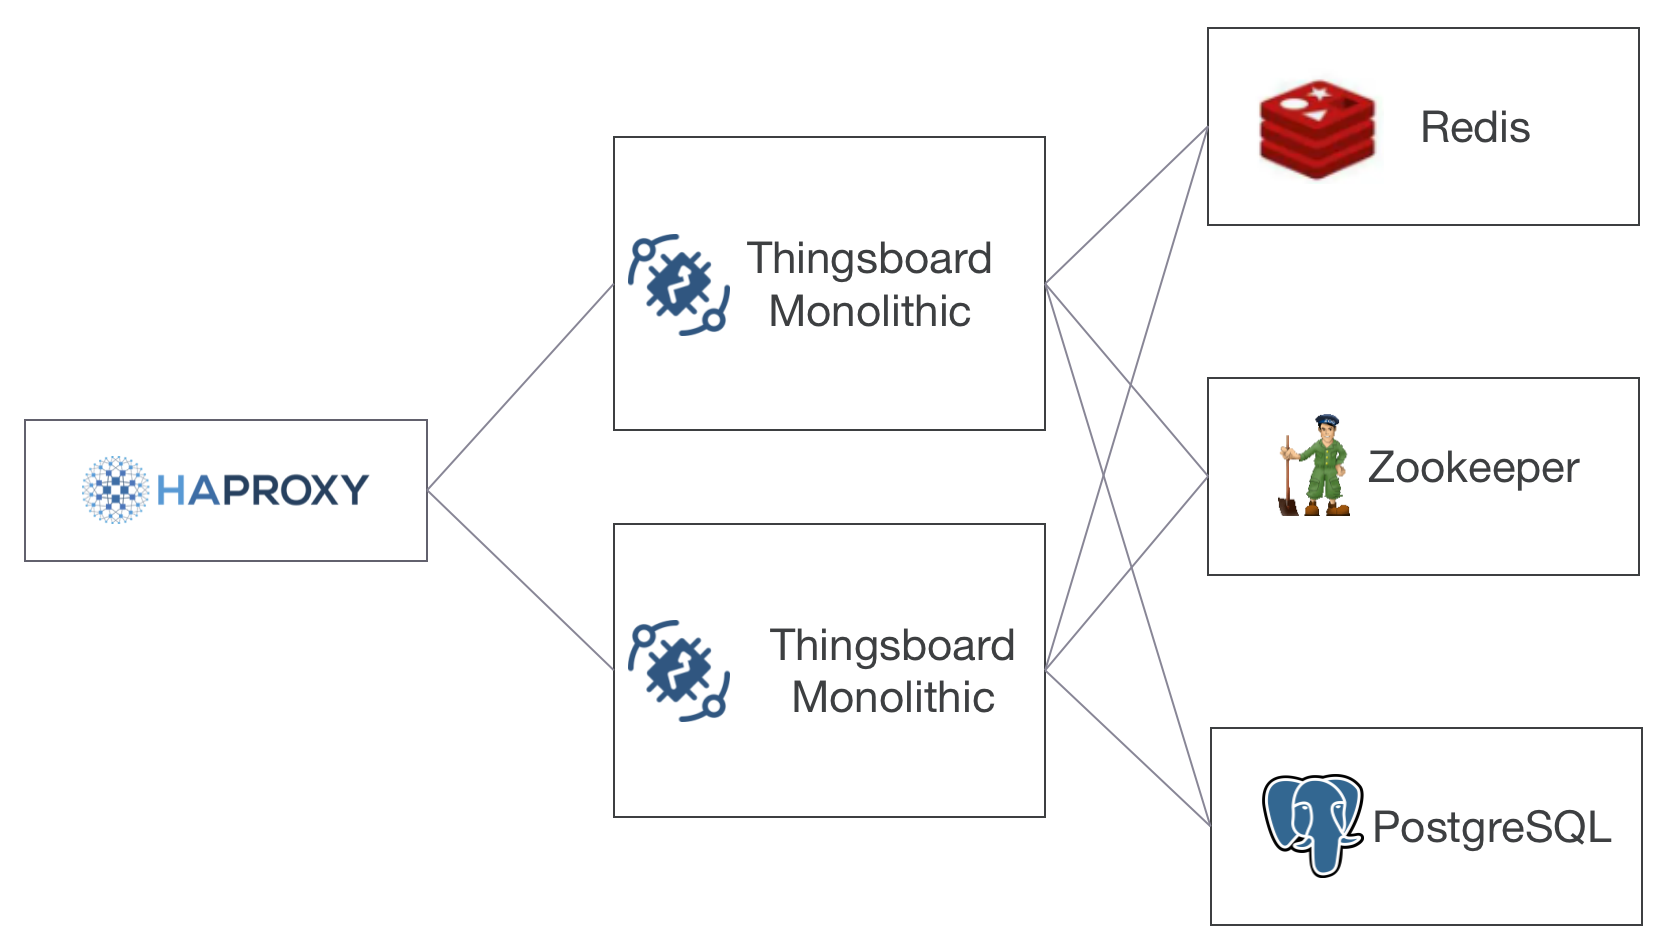
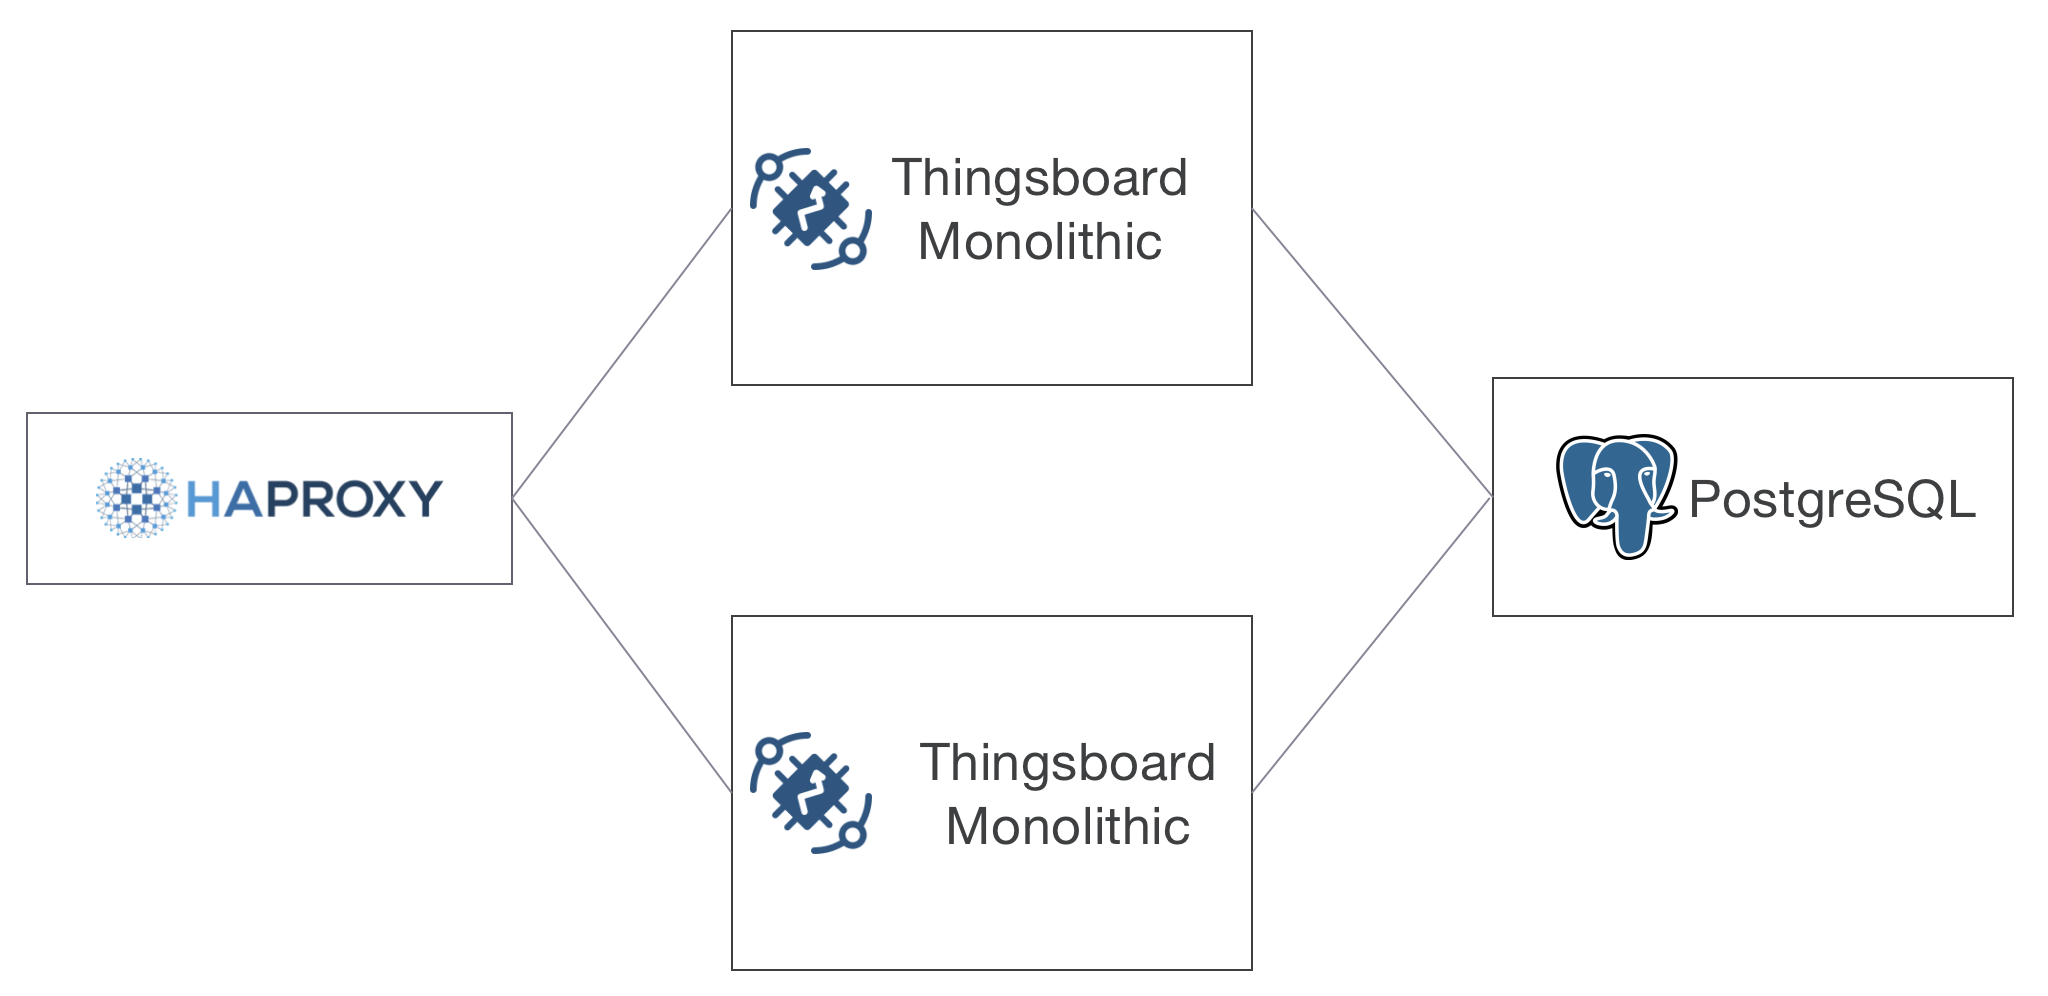
update ha md

diff --git a/doc/最佳实践/高可用集群.md b/doc/最佳实践/高可用集群.md
@@ -1,6 +1,6 @@
 #### 环境准备
 
-
+无
 
 #### 描述
 
@@ -9,63 +9,81 @@
 - 单片架构  ![](../../image/monolithic.png)
 - 微服务架构 ![](../../image/msa.png)
 
-单片架构存在单点故障，因此本篇主要探讨如何使用微服务架构或者如何混用微服务架构和单片架构。
+单片架构单独使用存在单点故障，但可以结合Haproxy达到高可用，微服务架构将服务划分为五类，分别是：UI服务、Core服务、RuleEngine服务、JsExecutor服务、Transport服务，Transport根据协议划分，分为Mqtt协议服务、Http协议服务、Coap协议服务，可以根据情况进行有选择的部署，甚至是可以和单片架构程序混合使用。（原因是通过配置项可以让单片架构程序变为Core服务程序或RuleEngine服务程序）。
 
-微服务架构划分为五类服务，分别是UI服务、Core服务、RuleEngine服务、JsExecutor服务、Transport服务，Transport根据协议划分，分为Mqtt协议服务、Http协议服务、Coap协议服务，可以根据情况进行有选择的部署，甚至是可以和单片架构混合使用。（原因是通过配置项，可以让单片架构程序变为Core服务程序或RuleEngine服务程序）。
-
-##### 高可用场景一：
+##### 高可用场景一
 
 - 较少设备 <=10000台
-- 较少请求 <= 10000条消息/s、10000个数据点/s
-- 较少规则链（主要是脚本相关节点较少） 
+- 较少请求 <= 5000条消息/s、5000个数据点/s
+- 较少规则链（脚本相关节点较少） 
 
-在这种情况下可使用如下方案达到高可用：
-![](../../image/ha1.png)
+可使用HA（主备模式）+单片架构程序方案达到高可用：
 
-服务清单如下：
+![ha1](../../image/ha1.png)
 
-- 2台4核心8G内存，部署HAproxy+Keepalive+VIP
+建议服务清单如下：
+
+- 2台2核心4G内存，部署HAproxy+Keepalive+VIP
 - 2台8核心16G内存，部署Thingsboard Monolithic
-- 3台2核心4G内存，部署Redis+Zookeeper
-- 3台4核心8g内存，部署PostgreSQL
+- 3台4核心16g内存，部署PostgreSQL+Etcd+patroni集群
 
-镜像需求如下：
+如果有较多的脚本执行节点，可以变化为如下结构：
+![ha2](../../image/ha1_js.png)
 
-|   类型   | 名称 | 版本| 说明| 是否必须 |
-| ---- | ---- | ---- | ---- | ---- |
-|  官方    | thingsboard/tb-node |   3.2.2   |     |    |
-|  官方    | thingsboard/tb-mqtt-transport     |  3.2.2    |     |   |
-|  官方    | thingsboard/tb-http-transport     |   3.2.2   |     |   |
-|  官方    | thingsboard/tb-coap-transport     |   3.2.2   |     |   |
-|  官方    | thingsboard/tb-web-ui     |   3.2.2   |     |   |
-|  其他    | postgres:11 |   11   |     |   |
-|  其他    | bitnami/cassandra |   3.11.6   |     |   |
-|  其他    | zookeeper |   3.5.7   |     |   |
-|  其他    | kafka     |      |     |   |
-|  其他    | redis     |      |     |   |
-
-//todo
-
-
-#### 系统部署
-
-//todo
+建议额外提供：
+- 3台4核心8g内存，部署Zookeeper+Kafka集群
+- 3台（或更多）2核心4g内存，部署脚本执行器Js-Executor
 
 
 
+##### 高可用场景二
+
+- 适量设备 <=50000台
+
+- 适量请求 <= 20000条消息/s、20000个数据点/s
+
+- 适量规则链请求
+  
+
+可使用HA（负载模式）+单片架构程序方案达到高可用
+![ha2](../../image/ha2.png)
+
+服务器建议如下：
+
+- 2台2核心4G内存，部署HAproxy+Keepalive+VIP
+- 3台8核心16G内存，部署Thingsboard Monolithic
+- 3台2核心4g内存，部署Redis集群
+- 3台2核心4G内存，部署Zookeeper集群
+- 3台4核心8g内存，部署PostgreSQL+Etcd+patroni集群
+- 3台4核心16G内存，部署Cassandra集群
+
+如果有较多的脚本执行节点，可以变化为如下结构：
+![ha2_js](../../image/ha2_js.png)
+
+建议额外提供：
+
+- 3台4核心8g内存，部署Kafka集群
+- 5台（或更多）2核心4g内存，部署脚本执行器Js-Executor
 
 
-#### 时序存储
 
-//todo
+##### 高可用场景三
+
+- 适量设备 <=100000台
+- 大量请求 > 20000条消息/s、20000个数据点/s
+- 中量以及大量规则链请求
+
+使用K8s+微服务进行集群部署：
+
+![ha3](../../image/ha3.png)
+
+暂时没有更好服务器配置建议，可参考官方。
 
 
 
 #### TIPS
 
+- 本文方案中的时序数据均为简单key-value数据，过长的value值需要重新进行评估。
 - [Thingsboard架构](https://thingsboard.io/docs/reference/)
 - [Thingsboard场景](https://thingsboard.io/docs/reference/iot-platform-deployment-scenarios/)
-- https://kubernetes.github.io/ingress-nginx/deploy/baremetal/#over-a-nodeport-service
-- PG集群方案
-- Redis集群方案
 

diff --git a/README.md b/README.md
@@ -36,7 +36,7 @@
 - 微服务 [入口](doc/部署/微服务.md)
 
 #### 最佳实践
-- 高可用集群 //todo
+- 高可用集群 [入口](doc/最佳实践/高可用集群.md)
 
 ### 高阶使用
 
